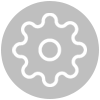
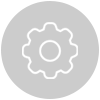
board order migration

Changed region(s): [[0.12, 0.12, 0.87, 0.87], [0.39, 0.39, 0.6, 0.63]]

diff --git a/pages/api/update-board-order.ts b/pages/api/update-board-order.ts
@@ -1,0 +1,43 @@
+import type { NextApiRequest, NextApiResponse } from "next";
+import { getSession } from '@auth0/nextjs-auth0';
+import prisma from "@/lib/prisma";
+
+export default async function handler(req: NextApiRequest, res: NextApiResponse) {
+   
+        const { boardId } = req.body;
+
+        const session = await getSession(req, res)
+
+        if (session?.user.email) {
+            const user = await prisma.user.findUnique({
+                where: {
+                    email: session.user.email
+                },
+                select: {
+                    boardOrder: true,
+                    id: true
+                }
+            })
+
+            if (user) {
+                const filteredBoards = user.boardOrder.filter(board => board !== boardId)
+                
+                filteredBoards.unshift(boardId)
+                
+                const updatedBoard = await prisma.user.update({
+                    where: {
+                        id: user.id
+                    },
+                    data: {
+                        boardOrder: filteredBoards
+                    }
+                })
+                res.status(201).json({status: "ok"})
+            } else {
+                res.status(404).json({status: "not found"})
+            }
+        } else {
+
+            res.status(401).json({status: "unauthorized"})
+        }
+}

diff --git a/pages/api/get-user-boards.ts b/pages/api/get-user-boards.ts
@@ -4,7 +4,6 @@ import prisma from "@/lib/prisma";
 
 export default async function handler(req: NextApiRequest, res: NextApiResponse) {
 
-
     try {
         const session = await getSession(req, res)
         if (!session) {
@@ -13,17 +12,23 @@ export default async function handler(req: NextApiRequest, res: NextApiResponse)
         }
 
         if (session?.user?.email) {
-            const userBoards = await prisma.user.findUnique({
+            const user = await prisma.user.findUnique({
                 where: {
                     email: session.user.email
                 },
                 include: {
-                   boards: true
+                    boards: true,
                 }
             })
 
-            if (userBoards) {    
-                res.status(201).json({boards: userBoards?.boards, role: userBoards?.role})
+            if (user) {    
+                
+                const orderedBoards = user.boards
+                orderedBoards.sort(function (a,b) {
+                    return user.boardOrder.indexOf(a.id) - user.boardOrder.indexOf(b.id)
+                })
+                
+                res.status(201).json({boards: orderedBoards, role: user.role})
                 return
             }
 

diff --git a/app/notifications/components/NotificationIcon.tsx b/app/notifications/components/NotificationIcon.tsx
@@ -108,8 +108,8 @@ export default function NotificationIcon() {
             {data.activeNotifications.length > 0 && <div className={styles.notificationIconContainer}>
                 <Image 
                     src={bellding}
-                    width={26}
-                    height={26}
+                    width={28}
+                    height={28}
                     alt="notifications"
                     onClick={handleNotifications}
                     className={styles.bellImg}
@@ -120,8 +120,8 @@ export default function NotificationIcon() {
             {data.activeNotifications.length === 0 && <div className={styles.notificationIconContainer}>
                 <Image 
                     src={bell}
-                    width={26}
-                    height={26}
+                    width={28}
+                    height={28}
                     alt="notifications"
                     onClick={handleNotifications}
                     className={styles.bellImg}

diff --git a/app/board/[id]/components/BoardLanding.tsx b/app/board/[id]/components/BoardLanding.tsx
@@ -2,7 +2,7 @@
 
 import { useQuery } from "@tanstack/react-query";
 import { useRouter } from "next/navigation";
-import { getBoard, removeBoard, sendAccessEmail } from "@/lib/db-utils";
+import { getBoard, removeBoard, sendAccessEmail, updateBoardOrder } from "@/lib/db-utils";
 import Spinner from "@/lib/Spinner"
 import CreatePost from "./CreatePost"
 import BoardHeader from './BoardHeader';
@@ -23,6 +23,7 @@ export default function Page({boardId}: {boardId: string}) {
 
     useEffect(() => {
         localStorage.setItem("invite", boardId)
+        updateBoardOrder(boardId)
     }, [])
 
     const handleAccess = async (e: SyntheticEvent) => {
@@ -45,7 +46,6 @@ export default function Page({boardId}: {boardId: string}) {
     }
 
     if ( status === "success" && data.board) {
-       
         
         if (data.isOwner) {
            

diff --git a/app/board/[id]/components/BoardOptions.tsx b/app/board/[id]/components/BoardOptions.tsx
@@ -140,8 +140,8 @@ export default function BoardOptions({boardId, setShowOptions, accessList, priva
                                 <label htmlFor="uploadBanner" className={styles.uploadItem}>
                                     <Image 
                                         src={edit}
-                                        width={30}
-                                        height={30}
+                                        width={32}
+                                        height={32}
                                         alt="edit banner button"
                                         className={styles.editBanner}
                                     />

diff --git a/lib/db-utils.ts b/lib/db-utils.ts
@@ -204,6 +204,21 @@ export async function getBoard(boardId: string) {
 // UPDATE
 
 
+export async function updateBoardOrder(boardId: string) {
+    const res = await fetch("/api/update-board-order", {
+        method: "POST",
+        body: JSON.stringify({
+            boardId
+        }),
+        headers: {
+            "Content-Type": "application/json"
+        }
+    })
+    const data = await res.json();
+    return data;
+}
+
+
 export async function updateNotifications() {
     const res = await fetch("/api/update-notifications")
     const data = await res.json();

diff --git a/app/board/[id]/components/BoardHeader.tsx b/app/board/[id]/components/BoardHeader.tsx
@@ -44,8 +44,8 @@ export default function BoardHeader({boardId, isOwner, setShowOptions, boardName
                     <div className={styles.editBoardButton}>
                         <Image className={styles.editBoard} 
                             src={gear}
-                            width={30}
-                            height={30}
+                            width={32}
+                            height={32}
                             alt="edit banner image"
                             onClick={() => setShowOptions(true)}
                         />

diff --git a/app/board/[id]/components/BoardCard.tsx b/app/board/[id]/components/BoardCard.tsx
@@ -5,10 +5,7 @@ import styles from "./BoardCard.module.css"
 export default function BoardCard ({board}: {board: Board}) {
     return (
         <div className={styles.container}>
-           
-                <h3 className={styles.boardTitle}>{board.name}</h3>
-            
-            
+            <h3 className={styles.boardTitle}>{board.name}</h3> 
         </div>
     )
 }

diff --git a/app/board/[id]/components/CreatePost.tsx b/app/board/[id]/components/CreatePost.tsx
@@ -10,8 +10,8 @@ import { useMutation, useQueryClient } from "@tanstack/react-query"
 import { createNewPost } from "@/lib/db-utils";
 import styles from "./CreatePost.module.css"
 import ReactPlayer from "react-player"
-import img from "../assets/image.png"
-import mov from "../assets/mov.png"
+import img from "../assets/cam.png"
+
 
 
 let holdLink = ""

diff --git a/pages/api/create-post.ts b/pages/api/create-post.ts
@@ -46,6 +46,7 @@ export default async function handler(req: NextApiRequest, res: NextApiResponse)
                 })
 
                 if (receivers.length > 0) {
+                   
                 const notification = await prisma.notificationActive.create({
                     data: {
                         receivers: {

diff --git a/app/notifications/components/NotificationIcon.module.css b/app/notifications/components/NotificationIcon.module.css
@@ -7,6 +7,7 @@
     left: 0;
     width: 100vw;
     height: 100vh;
+    padding: 0px;
     background: transparent;
     z-index: 10;
 }
@@ -20,6 +21,7 @@
   right: 0px;
   width: 100%;
   height: 100vh;
+  border: none;
   padding: 5px 5px 5px 5px;
   background-color: white;
   z-index: 30;

diff --git a/app/board/[id]/components/BoardHeader.module.css b/app/board/[id]/components/BoardHeader.module.css
@@ -40,6 +40,7 @@
 
 .giftItem {
     z-index: 0;
+    opacity: .85;
 }
 
 .bannerContainer {
@@ -130,6 +131,7 @@
     
     .giftItem {
         z-index: 0;
+        opacity: .85;
     }
     
     .bannerContainer {
